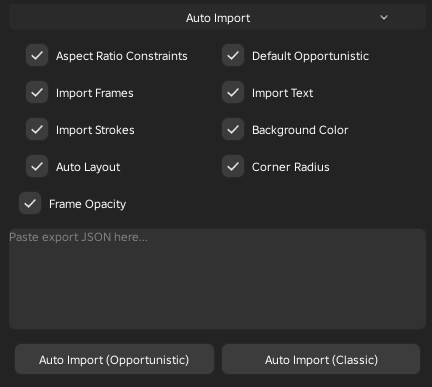
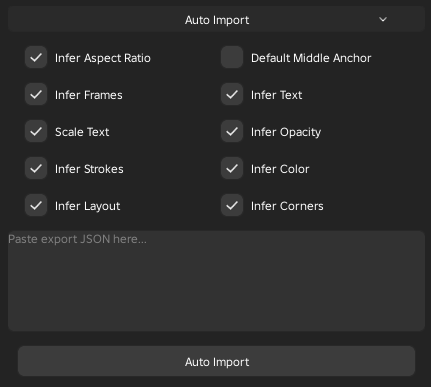
Merge pull request #13 from MiaGobble/dev
Dev

Pull request: Dev

diff --git a/docs/auto-importing.md b/docs/auto-importing.md
@@ -24,7 +24,7 @@ To import, first apply tags (see the tags section below) using the Figma plugin.
 
 Select your mode (opportunistic is recommended), and then click *export selection*. To copy your data, click *copy JSON*.
 
-Now in Roblox Studio, select a `ScreenGui` instance, paste the JSON snippet you copied into the auto import section of the plugin, and click the auto import mode of your choice.
+Now in Roblox Studio, select a `ScreenGui` instance, paste the JSON snippet you copied into the auto import section of the plugin, and click *auto import*.
 
 **You will need to upload the images and apply them yourself!** You can apply images either through:
 * Property input (not recommended)

diff --git a/docs/using-the-plugin.md b/docs/using-the-plugin.md
@@ -30,6 +30,7 @@ There are also additional fields for Roblox-related properties, such as:
 * Anchor Point X
 * Anchor Point Y
 * Name
+* Rotation
 
 To apply these, click *Apply* at the bottom of the plugin.
 